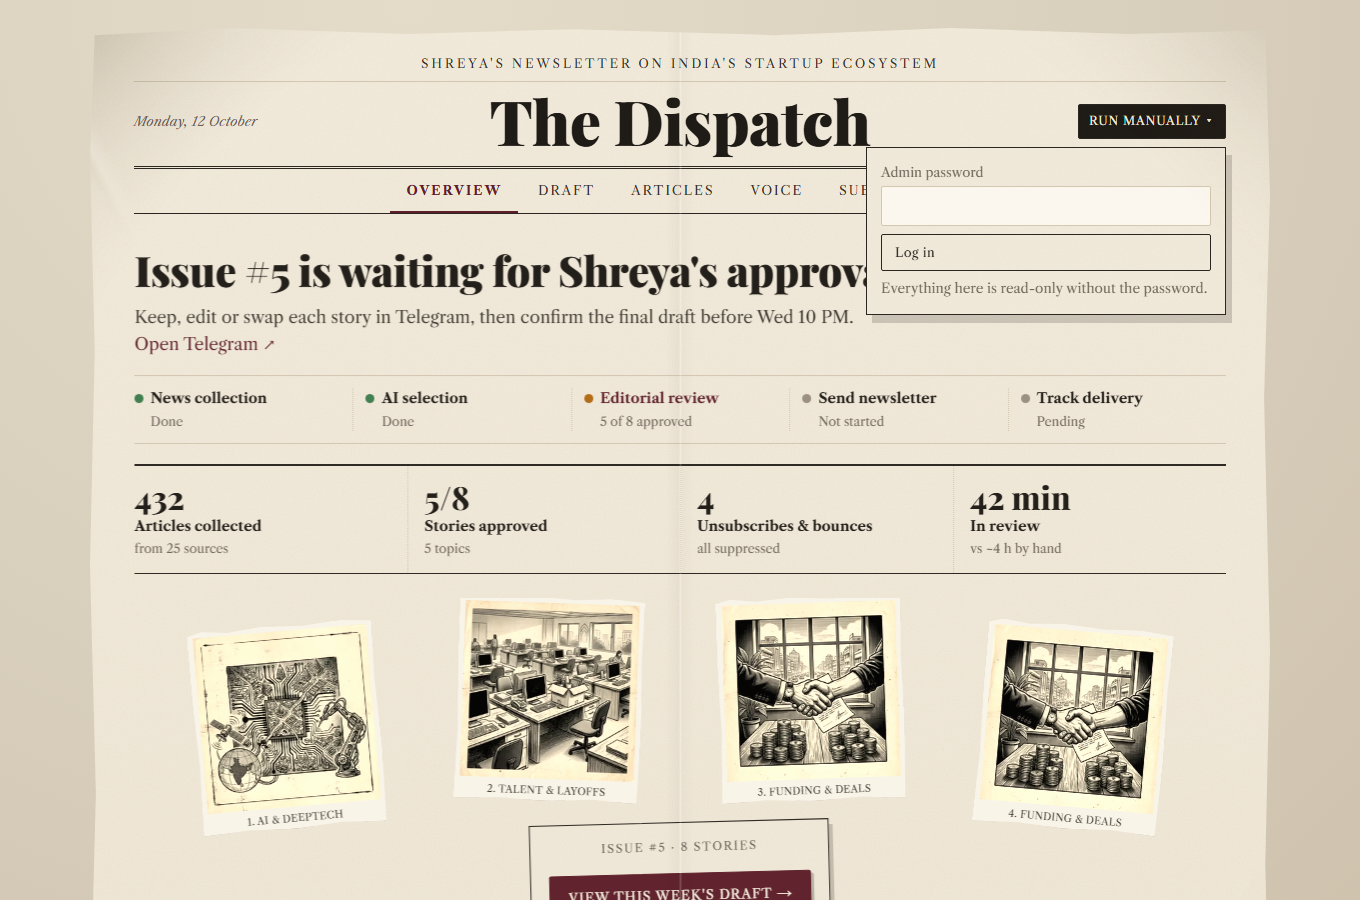
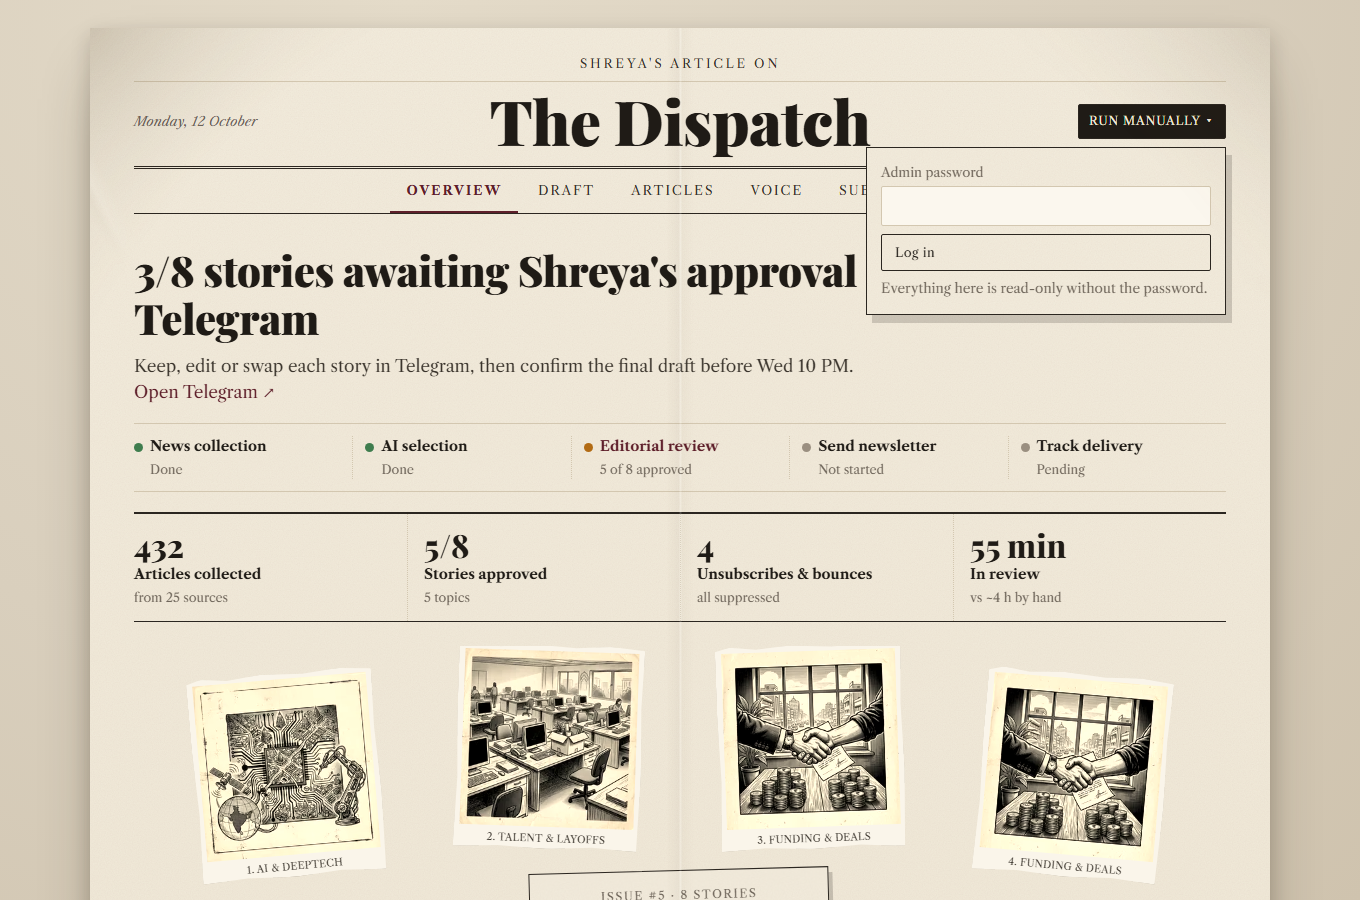
Remove torn edge, 'Shreya's article on' strap, x/8 awaiting-approval headline

diff --git a/lib/dashboard.ts b/lib/dashboard.ts
@@ -146,7 +146,9 @@ function overview(at: Date, week: string, issue: (Issue & { report_sent_at?: str
       break;
     case "pending_approval":
       set(0, "green", "Done"); set(1, "green", "Done"); set(2, "amber", `${health.approved} of ${health.count} approved`); current = 2;
-      headline = `${n} is waiting for Shreya's approval.`;
+      headline = health.approved < health.count
+        ? `${health.count - health.approved}/${health.count} stories awaiting Shreya's approval on Telegram`
+        : `All ${health.count} stories approved — final confirmation awaiting Shreya on Telegram`;
       next = pastSend ? "Approve today in Telegram to get a “Send now” button." : `Keep, edit or swap each story in Telegram, then confirm the final draft before Wed 10 PM${health.needsReview ? ` (${health.needsReview} stor${health.needsReview === 1 ? "y needs" : "ies need"} a check)` : ""}.`;
       telegram = true;
       break;

diff --git a/scripts/e2e.ts b/scripts/e2e.ts
@@ -45,7 +45,7 @@ async function main() {
 
   await check("front page: top navigation, workflow status, unsubscribes card, draft link, sample-data note", async () => {
     const html = (await (await fetch(`${BASE}/`)).text()).replace(/&#x27;/g, "'").replace(/&amp;/g, "&");
-    for (const s of ["Shreya's newsletter on India's startup ecosystem", "Assignment prototype · sample data is labelled", "News collection", "Editorial review", "Unsubscribes & bounces", "View this week's draft",
+    for (const s of ["Shreya's article on", "Assignment prototype · sample data is labelled", "News collection", "Editorial review", "Unsubscribes & bounces", "View this week's draft",
       "Draft", "Articles", "Voice", "Subscribers", "Track delivery"]) {
       if (!html.includes(s)) throw new Error(`missing “${s}”`);
     }

diff --git a/app/globals.css b/app/globals.css
@@ -54,8 +54,6 @@ img { max-width: 100%; }
   position: relative; max-width: 1180px; margin: 0 auto;
   background: var(--noise), linear-gradient(180deg, var(--paper) 0%, #f0e8d7 100%);
   box-shadow: 0 30px 60px -20px rgba(40, 30, 15, .45), 0 8px 18px rgba(40, 30, 15, .18);
-  /* torn, slightly irregular edges */
-  clip-path: polygon(0.4% 0.6%, 12% 0%, 27% 0.5%, 41% 0.1%, 58% 0.6%, 73% 0%, 88% 0.5%, 99.6% 0.2%, 100% 14%, 99.5% 31%, 100% 52%, 99.6% 70%, 100% 86%, 99.4% 99.5%, 84% 100%, 66% 99.4%, 49% 100%, 33% 99.5%, 17% 100%, 0.5% 99.6%, 0% 83%, 0.5% 64%, 0% 45%, 0.4% 27%, 0% 11%);
 }
 /* creases and crumpling — strongest at the edges, fading out before the reading area */
 .sheet::before {

diff --git a/app/page.tsx b/app/page.tsx
@@ -59,7 +59,7 @@ export default async function Dashboard({ searchParams }: { searchParams: Promis
 function Masthead({ d, admin, login }: { d: D; admin: boolean; login?: string }) {
   return (
     <header className="masthead">
-      <span className="strap">Shreya's newsletter on India's startup ecosystem</span>
+      <span className="strap">Shreya's article on</span>
       <span className="dateline">{formatIst(d.at, { weekday: "long", day: "numeric", month: "long", hour: undefined, minute: undefined })}</span>
       <a className="title" href="/" data-page="overview">The Dispatch</a>
       <div className="right"><RunMenu admin={admin} login={login} /></div>

diff --git a/README.md b/README.md
@@ -73,7 +73,7 @@ Details: [docs/SCHEMA.md](docs/SCHEMA.md).
 
 ## The dashboard: a newspaper you can page through
 
-- **Masthead:** a strip reading "Shreya's newsletter on India's startup ecosystem" above **The Dispatch**, then the top navigation: Overview · Draft · Articles · Voice · Subscribers.
+- **Masthead:** a strip reading "Shreya's article on" above **The Dispatch**, then the top navigation: Overview · Draft · Articles · Voice · Subscribers.
 - **Front page, kept deliberately simple:** one status headline with the next action, a five-step status line (Collect → Select → Review → Send → Track delivery), four numbers (articles, stories approved, unsubscribes & bounces, review time vs ~4 h by hand), a rubber stamp when approved or sent, and a collage with one picture per story (8–10) around one button: **View this week's draft**.
 - **Turning pages:** the paper **folds** to the next page. From the front page the collage pictures move aside first. Arrow keys and swipes work too, and reduced-motion users get no animation.
 - **Inside pages:** the draft (illustrated story cards with keep/edit/swap/reject, Gemini's reasons, and — folded away — approval history, topic mix vs the last four issues, reserves and the email preview), articles (why each was kept or dropped, source health), editorial voice (Learn my voice, edit, version history), and subscribers (unsubscribes, bounces, delivery tracking, CSV import). Every job run is still logged in Neon (`workflow_runs`); the components map and flowchart live in this README.
